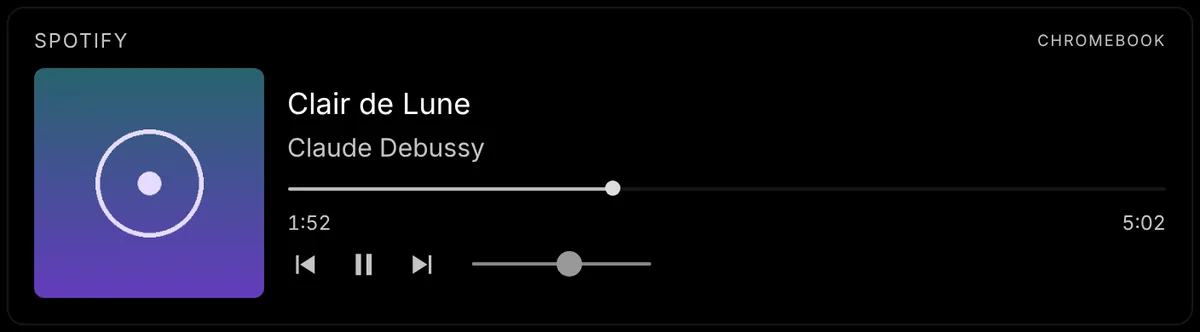
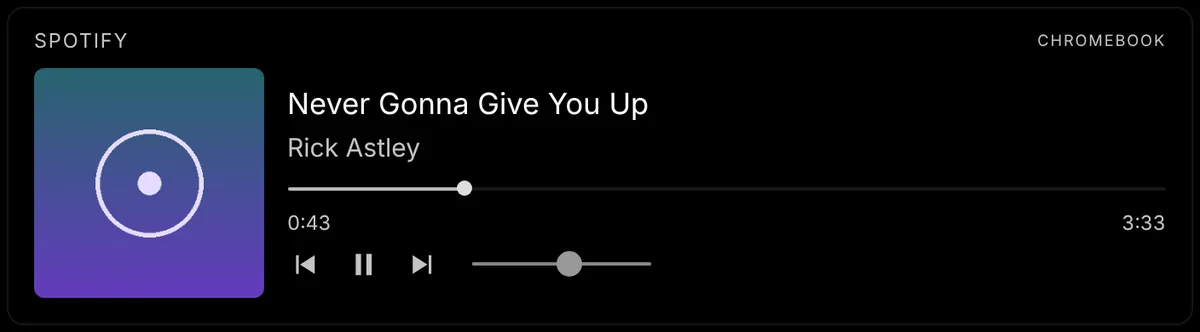
Features page: Rick Roll the Spotify example
Claude-Session: https://claude.ai/code/session_01PgGyJExhqT4muwaGb8aL2J

diff --git a/features/index.html b/features/index.html
@@ -168,7 +168,7 @@
         <h3>Flashcards</h3><p class="d">Paste a list, click to flip, and mark what you know. Great for vocab.</p></div>
     </div>
     <div class="grid wide reveal" style="margin-top:30px">
-      <div><div class="shot"><img src="img/w-spotify.webp" alt="Spotify widget playing Clair de Lune with cover art, progress bar, controls and volume" loading="lazy"></div>
+      <div><div class="shot"><img src="img/w-spotify.webp" alt="Spotify widget playing Never Gonna Give You Up by Rick Astley, with cover art, progress bar, controls and volume" loading="lazy"></div>
         <h3>Spotify</h3><p class="d">See what's playing and control it on any of your devices: play, pause, skip, drag to seek and change the volume. Needs Spotify Premium.</p></div>
     </div>
   </div>
